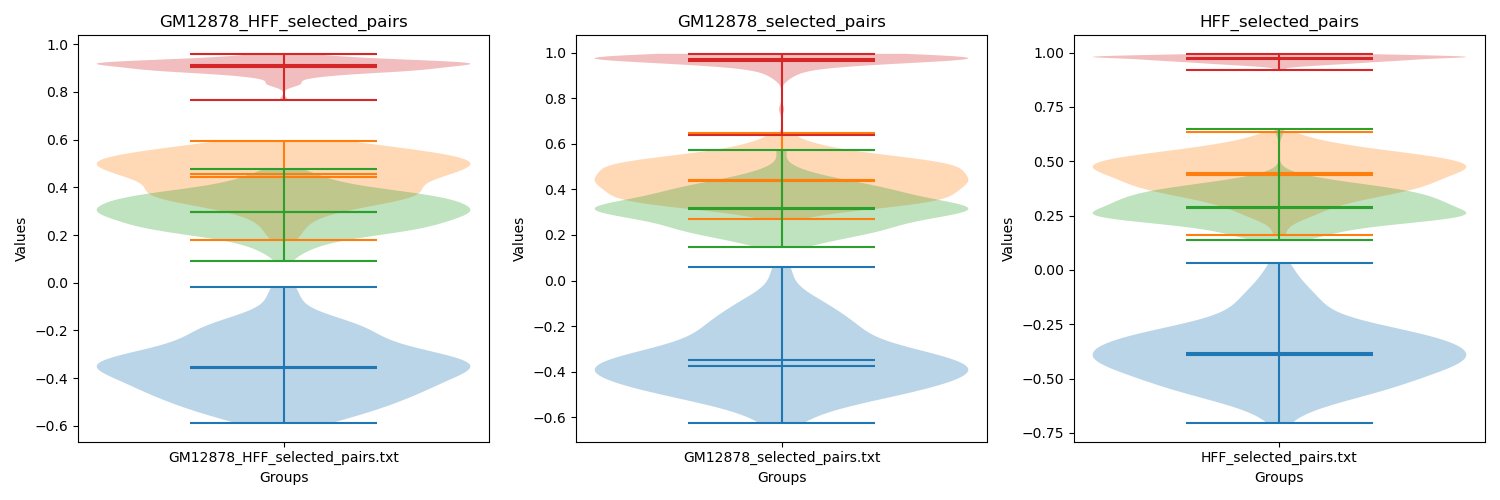
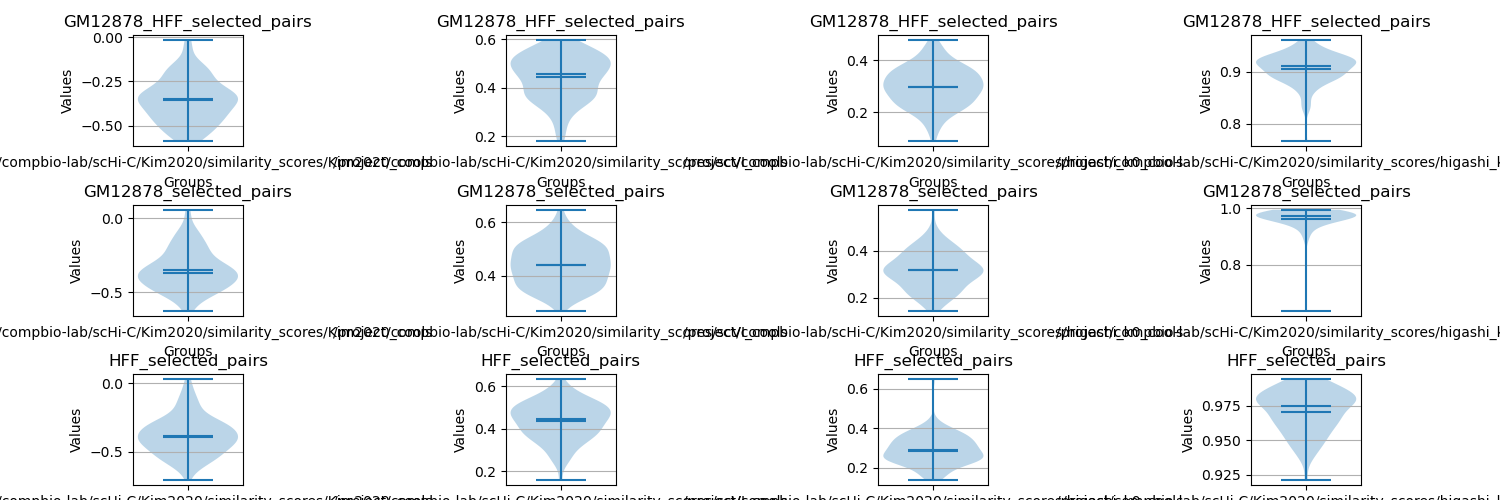
added plot SCC script

diff --git a/experiments/2023-09-18/plot_SCC.py b/experiments/2023-09-18/plot_SCC.py
@@ -17,15 +17,19 @@ pairs_list = [GM12878_HFF_pairs, GM12878_pairs, HFF_pairs]
 plt.figure(figsize=(15, 5))  
 
 for j, p in enumerate(pairs_list):
-    plt.subplot(131+j)
+    # plt.subplot(131+j)
     for i, d in enumerate(dirs):
         temp_df  = pd.read_csv(os.path.join(d,p), sep='\t')
         # temp_df.columns = ["cool1", "cool2", "HiCRep_SCC"]
+        subplot_index = len(dirs) * j + i + 1
+        # Create subplot with four columns
+        plt.subplot(len(pairs_list), len(dirs), subplot_index)
         temp_df["HiCRep_SCC"] = pd.to_numeric(temp_df["HiCRep_SCC"], errors='coerce')
         plt.violinplot(temp_df["HiCRep_SCC"], showmeans=True, showmedians=True)
-        plt.xticks([1], [p])  # Only one violin plot, so only one x-tick
+        plt.xticks([1], [d])  # Only one violin plot, so only one x-tick
         plt.xlabel('Groups')
         plt.ylabel('Values')
+	# plt.legend()
         plt.title(p.replace(".txt", ""))
         plt.grid(axis='y')
     plt.tight_layout()
